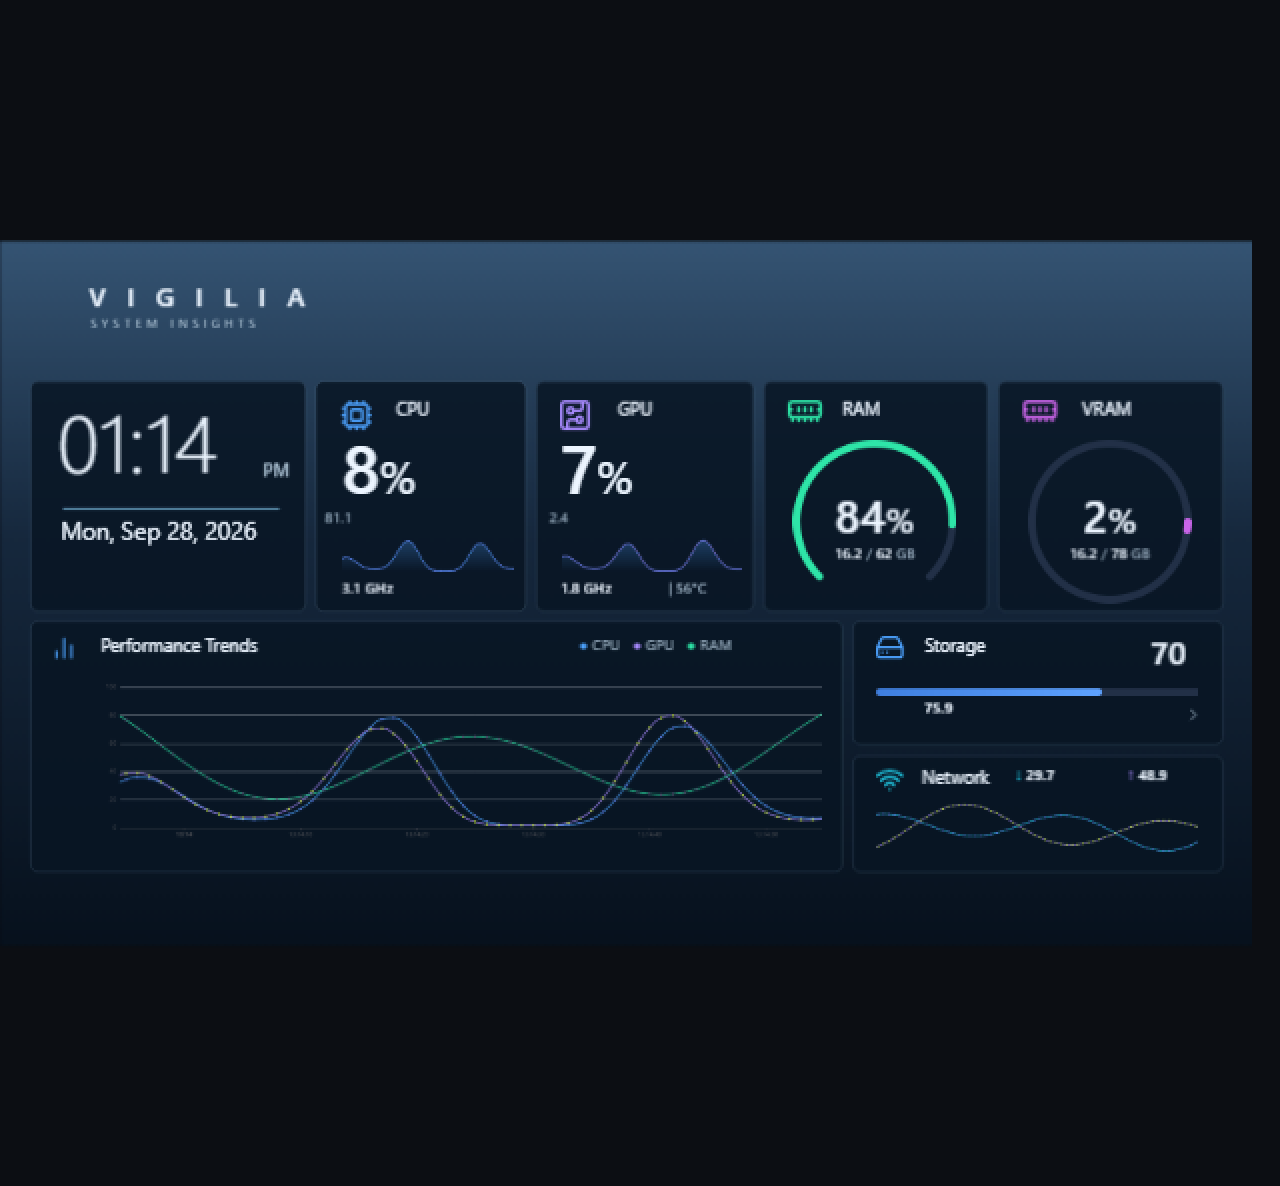
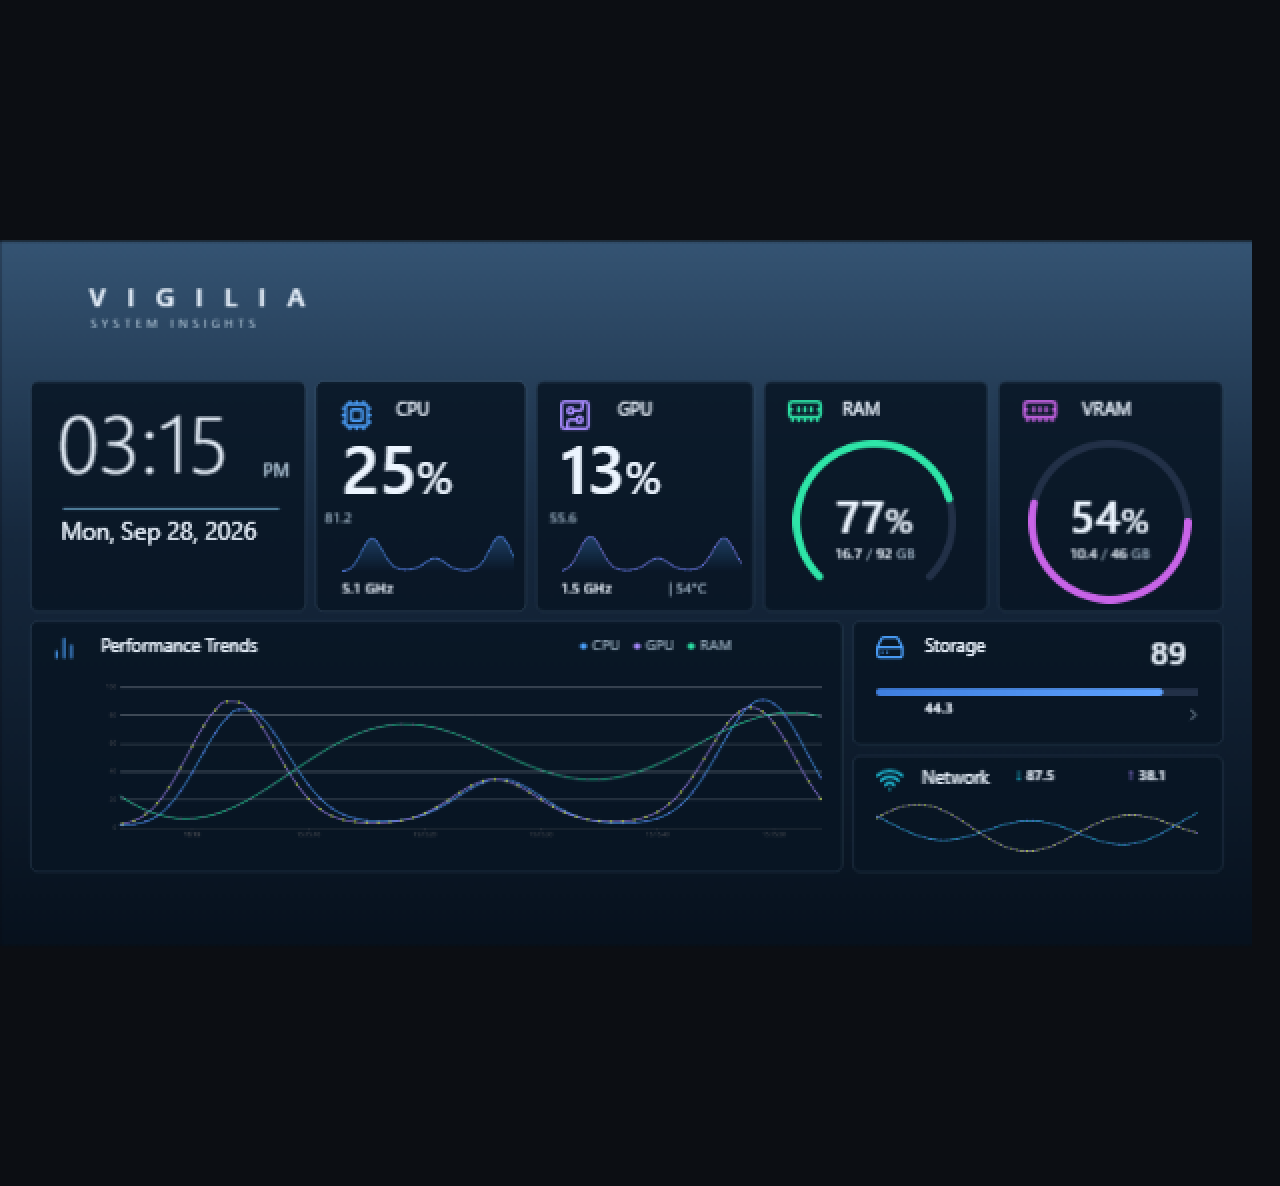
docs(review): name what the plan closed, and the one clause it did not
Task 12 reviewed the twelve tasks as a whole rather than one at a time, and
the seams are where the false claims were. Four shipped comments did not
survive the reading:

- lhm-mapping.ts's DeviceAssignment doc still said an unassigned group keeps
  the "highest reading... exactly as before". 0004 made it the first device
  the machine reports, and highest() is gone.
- A second comment in the same file had been orphaned under a new interface
  since 0ee0f47 and described the same deleted rule. It is moved onto
  matchLhmSensors, where it belongs, and corrected.
- library.ts's CPU cache said "see above" and so inherited a claim that
  describeDevices refreshes it. It does not; that clears drives only.
- disk.name's gap message said "no drive is assigned" when the assigned drive
  can also be simply absent, which the code 200 lines away handles.

A fifth was a false evidence claim rather than a false comment. STATUS and the
bug file both said the two mounts "agree to 0.1%" on ink. Re-derived: ink
parity read 0.033%/0.370% before the gauge fix and 0.062%/0.308% after, so it
does not discriminate - ink is the track, which the fix never touched. Both
now say so, and name the chroma movement (219 -> 12,601, 307 -> 4,021) as
the evidence instead.

Two e2e defects, both measured rather than guessed:

- `chroma > 2000` read "RAM above ~7%", not the ~10% it was taken for. On the
  starter's own gauge option chroma is 553 + 207 x value (216 with no datum,
[…]

diff --git a/src/web/tests/e2e/host-player.spec.ts b/src/web/tests/e2e/host-player.spec.ts
@@ -321,6 +321,13 @@ test.describe("hosted player over the real host", () => {
     await expect(page.locator("#vigilia-connection")).toHaveCount(0, {
       timeout: 15_000,
     });
+    // Waited on, not read once: the banner clears when the stream connects, which
+    // is before the first sample reaches the canvas, and until it does the clock
+    // correctly shows the no-reading gap. Reading it there is how this test went
+    // red under load while passing 24/24 in its own project.
+    await expect
+      .poll(() => shownClock(page), { timeout: 15_000 })
+      .not.toBe("—");
     const japanese = String(await canvasProp(page, CLOCK_NODE_ID, "text"));
 
     await page.goto(`${HOST}/?theme=${HOST_ENGLISH_THEME_ID}&data=live`);
@@ -328,6 +335,9 @@ test.describe("hosted player over the real host", () => {
     await expect(page.locator("#vigilia-connection")).toHaveCount(0, {
       timeout: 15_000,
     });
+    await expect
+      .poll(() => shownClock(page), { timeout: 15_000 })
+      .not.toBe("—");
     const english = String(await canvasProp(page, CLOCK_NODE_ID, "text"));
 
     // Same theme shape, binding, instant and literal. Only declared language differs.
@@ -505,10 +515,18 @@ test.describe("hosted player over the real host", () => {
     );
     expect(gauge, "the ring is on the display").toBeDefined();
     expect(gauge!.ink, "the ring has a track").toBeGreaterThan(500);
+    // The floor is the *no arc* baseline, not a share of memory. Measured on
+    // this option at the starter's 218x218 @ renderScale 2, chroma is
+    // `553 + 207 x value` px: 216 with no datum at all, 553 at value 0, 2,620 at
+    // 10%. A 2000 floor therefore read "RAM above ~7%", which is a statement
+    // about the host's memory rather than about the ring — and it went red on an
+    // idle machine that the fix had fixed. 500 is the floor this file already
+    // uses for the other charts, and it is 2.3x the arc-less baseline this test
+    // has to tell apart (219 on `ram-gauge`, 307 on `vram-gauge`).
     expect(
       gauge!.chroma,
       "the ring paints its progress arc in the theme's colour",
-    ).toBeGreaterThan(2000);
+    ).toBeGreaterThan(500);
   });
 
   test("paints each caption from the host's own reading of that key", async ({
@@ -1004,15 +1022,19 @@ test.describe("a display fed by the real host", () => {
       "the picture is not one flat colour",
     ).toBeGreaterThan(0.001);
 
-    // Kept as evidence, and looked at before it is kept.
-    await page.setContent(
-      `<body style="margin:0;background:#0c0e13"><img src="${dataUrl}" style="display:block;width:${census.width * 2}px;image-rendering:pixelated"></body>`,
-    );
-    await page.waitForTimeout(400);
-    await page.screenshot({
-      path: "../../docs/evidence/screenshots/host-theme-thumbnail-desktop-chromium.png",
-      fullPage: true,
-    });
+    // Kept as evidence, and looked at before it is kept. Gated like its two
+    // siblings: this file is tracked, and rewriting it on every desktop-host
+    // run left the working tree dirty with a picture nobody inspected.
+    if (process.env["VIGILIA_CAPTURE"] !== undefined) {
+      await page.setContent(
+        `<body style="margin:0;background:#0c0e13"><img src="${dataUrl}" style="display:block;width:${census.width * 2}px;image-rendering:pixelated"></body>`,
+      );
+      await page.waitForTimeout(400);
+      await page.screenshot({
+        path: "../../docs/evidence/screenshots/host-theme-thumbnail-desktop-chromium.png",
+        fullPage: true,
+      });
+    }
   });
 
   test("reconnects after the stream fails, and the reading resumes", async ({

diff --git a/src/web/packages/host/src/providers/lhm-mapping.ts b/src/web/packages/host/src/providers/lhm-mapping.ts
@@ -268,12 +268,6 @@ function deriveDiskUsed(sensors: readonly LhmSensor[]): number | undefined {
   return total === undefined || free === undefined ? undefined : total - free;
 }
 
-/**
- * First sensor that answers each key. Where a group has several instances (two
- * GPUs, several disks, several NICs), capacity and throughput sum, while a
- * percentage, temperature, power or clock takes the highest — which is what a
- * single figure for that key should mean.
- */
 /** A GPU this machine reports, so a consumer can choose between them. */
 export interface GpuDeviceReading {
   readonly deviceId: string;
@@ -345,6 +339,16 @@ export function diskDeviceReadings(
   return readings;
 }
 
+/**
+ * First sensor that answers each key. Where the set it is given holds several
+ * instances of one group, capacity and throughput sum while a percentage,
+ * temperature, power or clock takes the highest.
+ *
+ * That is the rule for whatever set reaches it. Which devices are in that set
+ * is `matchLhmSensorsAssigned`'s decision, and it is a selection, not a maximum
+ * (0004) — so an unassigned group here is one device's reading, not the
+ * busiest one's.
+ */
 export function matchLhmSensors(
   sensors: readonly LhmSensor[],
   semanticKeys: readonly string[],
@@ -456,9 +460,9 @@ export interface DeviceAssignment {
 
 /**
  * Readings limited to the assigned devices, so a two-GPU machine can show the
- * GPU the consumer chose under the theme's single `gpu.*` keys. A group with no
- * assignment keeps the default behaviour (highest reading, summed capacity), so
- * an unconfigured host behaves exactly as before.
+ * GPU the consumer chose under the theme's single `gpu.*` keys. An unassigned
+ * group answers from the first device the machine reports, not the busiest one
+ * (0004) — a caption that changes text every sample cannot be read.
  */
 /** The data-disk slot's keys. */
 const DATA_DISK_KEYS = [

diff --git a/src/web/packages/host/src/providers/library.ts b/src/web/packages/host/src/providers/library.ts
@@ -459,6 +459,9 @@ export function samplesFromLibrary(
   pushText(
     "disk.name",
     readings.diskName,
+    // Two causes, one message: unassigned, the keys measure every volume and
+    // no one drive's name describes that sum; assigned but absent, they measure
+    // nothing. Neither is a name.
     "no drive is assigned, so these keys describe every volume at once; " +
       "choose one on the settings page",
   );
@@ -547,7 +550,8 @@ export class LibrarySensorProvider implements SensorProvider {
    * add a miss-triggers-rebuild check when that shows up as a real defect.
    */
   private drives: Promise<readonly DriveDevice[]> | undefined;
-  /** `si.cpu()` costs ~1.5 s for three strings that cannot change; see above. */
+  /** Read once like the drive index, but *not* refreshed by `describeDevices`:
+   * a CPU's identity cannot change while the host runs. */
   private cpu: Promise<CpuLike> | undefined;
 
   constructor(private readonly library?: LibraryModule) {}

diff --git a/STATUS.md b/STATUS.md
@@ -6,12 +6,14 @@ Branch: `claude/superpowers-workflow-cleanup`
 ## Current objective
 
 Reference-theme fidelity: a progressive default starter scene, mandatory glass,
-RAM/VRAM gauges, existing charts accepted, glow optional.
+RAM/VRAM gauges, existing charts accepted, glow optional. **All 12 tasks are
+written and reviewed; the plan is not closed** because one acceptance clause is
+unmet on the real player (below).
 
 ## Active work
 
+- **Active plan:** [reference theme fidelity](docs/superpowers/plans/2026-09-26-reference-theme-fidelity.md) — subagent-driven. Tasks 1–12 written and reviewed. Ledger: `.superpowers/sdd/2026-09-26-reference-theme-fidelity/progress.md`. **Not archived, spec not marked implemented:** the acceptance clause *"Inspect editor and real player at target size, another fitted viewport and different DPR, including grouped/rotated/overlapping panels and changing media"* was proved on the **editor** mount only — the suite has one DPR test and one rotation/overlap test, both in `reference-theme.spec.ts` on `openCaptureFixture` — while the real player is inspected at reference size alone. The media half is blocked by [#3](https://github.com/peterng1618/vigilia/issues/3). Everything else in the acceptance list is met.
 - **Completed, archived:** `2026-09-25-snapping-fidelity.md`, `2026-09-26-clock-and-theme-locale.md`, [GitHub Issues as the backlog](docs/superpowers/plans/2026-09-27-github-issues-backlog.md) — `docs/bugs/` is gone; open [#2](https://github.com/peterng1618/vigilia/issues/2) delete inside a group, [#3](https://github.com/peterng1618/vigilia/issues/3) packaged assets.
-- **Active plan:** [reference theme fidelity](docs/superpowers/plans/2026-09-26-reference-theme-fidelity.md) — subagent-driven. Tasks 1–10 complete; 11, 12 remain. Ledger: `.superpowers/sdd/2026-09-26-reference-theme-fidelity/progress.md`.
 - **Queued spec, no plan:** [author journey proof](docs/superpowers/specs/2026-09-27-author-journey-proof-design.md) — **approved 2026-09-27**; plan deferred until this plan closes, since it must be written against the delivered surface. Rebuilds the reference from blank through the UI alone — no generator, starter, fixture or JSON.
 - **Queued plan:** [font catalogue and trio picker](docs/superpowers/plans/2026-09-27-font-trio-catalog.md) — not activated. Replaces the one-entry hand-written trio with 380 generated pairings over 238 faces, and the two-option dropdown with one searchable picker.
 - **Queued spec, no plan:** removing the v1 document format and the fixture node-tree render path — must account for `metadata.locale`: v1 documents carry no metadata, and absent means `en` there.
@@ -19,20 +21,21 @@ RAM/VRAM gauges, existing charts accepted, glow optional.
 
 ## Last completed change
 
-- **The RAM/VRAM rings draw their progress arc on the display** (Task 11b, [#6](https://github.com/peterng1618/vigilia/issues/6) closed). The cause is ECharts 6.1.0's and it was never the pointer: `GaugeView._renderPointer` reads its own `_progressEls` inside the data-diff `update` callback (`GaugeView.js:397`) and only assigns it after a render that drew an arc (`:457`), so a datum that outlives `progress.show: false` throws. The display renders every gauge once before telemetry arrives, and the first sample flipped the flag under a datum. **A gauge with no arc now carries no datum** (`docs/decisions/0008`), which is the bar family's own `value: null` rule. Real host, same build, saturation: **ram-gauge 219 → 12,601; vram-gauge 307 → 4,021**, track ink unchanged (21,065 → 21,085, 27,592 → 27,609) and the editor's rings read 21,072 and 27,694 on the same build — the two mounts agree to 0.1%. The `test.fail` is removed and the regression is a mounted test that fails with the fix disabled.
-- **The display's charts now paint in the theme's palette (Task 11a).** `hydrateCharts` called `buildChartPlan` with `undefined` where the editor has always passed `theme.globals?.palette`, and `planContent` dropped it too, so every `palette.` reference resolved to nothing: the storage bar carried `value: 46.8` with `itemStyle.color: "transparent"`. Real host, real host-saved starter, pixels counted — **storage-bar 0 → 17,200; ram-gauge 0 → 21,065; vram-gauge 0 → 27,592; cpu sparkline 221 → 6,482**, each by re-breaking the fix and re-measuring, not inferred.
-- **An unresolvable paint reference is now a reported gap, not transparent ink on a live value** (`docs/decisions/0007`). `chart-paint` returns `undefined`; the gauge hides its arc, the bar's datum is `value: null`, the line draws no stroke — each the no-value state that family already uses for a missing sample — and `buildChartPlan` pushes the `unresolved-global` issue `resolveStyleValue` already owns. The pie keeps its share and loses its ink: §83 forbids renumbering a composition around a colour that failed.
-- **The capture composites the artboard's background media** (D2). It is a DOM sibling by 0001, so `toCanvasElement` never saw it: 81% of the artboard transparent. It now paints through the `BackdropMedia.paint` contract the glass sampler already uses. Artboard core transparency 0.468 → <0.02 with the break. One `test.fail` removed.
+- **Task 12 reviewed the whole plan and corrected its durable records.** Four shipped comments were false or orphaned and are now true: `lhm-mapping.ts` claimed an unassigned group keeps "the highest reading… exactly as before" (0004 made it the first device the machine reports); a second doc comment there had been orphaned under a new interface since `0ee0f47` and described the same deleted rule; `library.ts`'s CPU cache said "see above" while `describeDevices` refreshes only `drives`; and `disk.name`'s gap message said "no drive is assigned" when the assigned drive can also be simply absent. A fifth was a **false evidence claim**: STATUS and the bug file both said the two mounts "agree to 0.1%" on ink — measured 0.033%/0.370% *before* the fix against 0.062%/0.308% after, so it does not discriminate. The chroma movement (219 → 12,601, 307 → 4,021) is the evidence, and that is what both now say.
+- **The e2e gauge assertion is characterised instead of guessed.** `chroma > 2000` read "RAM above ~7%": measured on the starter's own option, chroma is `553 + 207 × value` (216 with no datum, 553 at 0, 2,620 at 10). The floor is now 500, the value the same file already uses for the other charts and 2.3× the arc-less baseline it must tell apart.
+- **The two e2e evidence defects are fixed.** `host-player.spec.ts:1013` rewrote the tracked `host-theme-thumbnail-…png` on every desktop-host run with no gate, while its two siblings gate on `VIGILIA_CAPTURE`; and the locale test read the clock before the first sample arrived, which is how it went red under load.
+- **§85 and the ownership map are current again.** §85 said "No chart engine gaps are open" and now names the three the work opened (first-series-only `areaStyle`, the backing-pixel `lineWidth` unit, the gauge-datum rule). `docs/architecture/ownership.md` named the glass *control* and never the glass *rendering* owner, which the spec requires: `scene-fabric/src/glass.ts` and `renderer-core/src/theme/glass.ts` are both recorded.
 
 ## Next
 
-1. Continue reference-theme fidelity: Task 10, 11, 12.
+1. Decide the unmet acceptance clause: extend the real-player proof to a fitted viewport and a second DPR (media stays blocked on [#3](https://github.com/peterng1618/vigilia/issues/3)), or amend the clause. Then mark the spec implemented and archive the plan.
 2. Then the font catalogue plan, then the queued specs.
 
 ## Blockers / unverified
 
+- **The real player is inspected at one configuration.** `the fitted, reference-size and DPR views…` and `rotated and overlapping panels both keep compositing` both drive the editor mount. The real-player reference capture runs at 1672 × 941 and nothing else; a fitted viewport, a second DPR and changing media on that mount are unproved, and the last is blocked on [#3](https://github.com/peterng1618/vigilia/issues/3).
+- **`library.ts` is 785 lines** (a documentation-only correction cost 4 of the 19 lines of headroom the earlier ruling left). The extraction into `library-devices.ts` is still required **before any future work on selection, not during it**; it is not a violation today.
 - The `line` family applies `areaStyle` to the **first series only** (`charts/line.ts:254-255`), so the reference's three filled trend series are not expressible. A renderer limitation, not a starter decision; the two sparklines do keep their area. Separately: the glass composite bound moved 3 ms to 4 ms inside the Task 7 commit `109669e`, when the reference CPU card made the panel 1.68x larger; the review asked for that as its own commit and history was not rewritten, so it is named here instead and the supporting readings are post-change on one machine. The queued author-journey spec also still owes a browser round-trip of text wrap/overflow, in-place edit and undo.
 - The frosted CPU card's own `mr` handle does not track the pointer: a resize aiming 10 units right landed 4.24 units left of where it started, while the same gesture on the un-frosted RAM card landed exactly on the neighbouring edge. Glass is on the watchlist; this is a Task 5-shaped defect and is recorded in `task-7-report.md`.
-- Task 9's two open edges, named rather than wished away. **Residual:** each provider is internally consistent — one selection answers a group's figures and its caption together — but `registry.sample` fans out with `Promise.allSettled`, so an assignment landing **between** LHM's read and the library's pairs one provider's figure with the other's name for one frame; closing it needs a host-owned epoch threaded through the registry, a provider-contract change, and `registry.test.ts` pins the split so it is visible rather than silent. **Unverified:** the drive model→volume join matches `blockDevices[].device` to `diskLayout[].device` by equality, proven only on Windows (`\\.\PHYSICALDRIVE0`); the POSIX form is unverified, no guess was added, and a miss yields a **gap**, never a wrong name.
-- Owed to Task 8's own typography, now visible because the box is real: `storage-card-value`'s box runs 1460–1660 while its card ends at 1632 (the glyphs centre inside it and stay on the card, so nothing paints out of place, but box and card disagree by 28 units).
+- Task 9's two open edges, named rather than wished away. **Residual:** each provider is internally consistent — one selection answers a group's figures and its caption together — but `registry.sample` fans out with `Promise.allSettled`, so an assignment landing **between** LHM's read and the library's pairs one provider's figure with the other's name for one frame; closing it needs a host-owned epoch threaded through the registry, a provider-contract change, and `registry.test.ts` pins the split so it is visible rather than silent. **Unverified:** the drive model→volume join matches `blockDevices[].device` to `diskLayout[].device` by equality, proven only on Windows (`\\.\PHYSICALDRIVE0`); the POSIX form is unverified, no guess was added, and a miss yields a **gap**, never a wrong name. Owed to Task 8's typography, now visible because the box is real: `storage-card-value`'s box runs 1460–1660 while its card ends at 1632 (the glyphs centre inside it and stay on the card, so nothing paints out of place, but box and card disagree by 28 units).
 

diff --git a/docs/product/requirements.md b/docs/product/requirements.md
@@ -157,8 +157,23 @@ never zero.
 
 A supported setting needs a property control, persisted authored representation
 and visual fixture. If ECharts cannot express a treatment, surface the gap and
-get product agreement before stabilising an approximation. **No chart engine
-gaps are open.**
+get product agreement before stabilising an approximation. **Three are open**,
+recorded by the reference-theme plan; each is a limit of what one engine option
+can say, not a defect:
+
+- **A line's area fill applies to the first series only**
+  (`renderer-core/src/charts/line.ts:254-255`). A theme wanting several filled
+  series cannot have them; the reference's three filled trend series are
+  therefore not expressible, and the starter draws strokes.
+- **A series `lineWidth` is a backing-pixel length, not an artboard unit**
+  (`0005`). The backing scale is derived per chart from its own area, so one
+  authored value renders at 1.305× on the starter's trends chart against its
+  sparklines. `shadowBlur` inherits the same unit, which is why the optional
+  chart glow is skipped.
+- **A gauge must carry no datum when it draws no arc** (`0008`). ECharts 6.1.0
+  reads its own previous progress element unguarded inside the data-diff update
+  callback, so a datum outliving `progress.show: false` throws inside the
+  engine. Worked around on our side of the boundary; unfixed upstream.
 
 - Gauge angular gradients: ECharts applies gauge progress colour across the
   swept arc, so the adapter expresses the gradient as arc segments.

diff --git a/docs/architecture/ownership.md b/docs/architecture/ownership.md
@@ -74,6 +74,7 @@ tree, and `editor-shell/layer-panel.tsx` renders those rows.
 | Samples/status | `renderer-core/src/types.ts` |
 | Live presentation buffer | `renderer-core/src/data/live-source.ts` |
 | Theme semantic types/validation | `renderer-core/src/theme/` |
+| The authored `vigiliaGlass` treatment and its bounds | `renderer-core/src/theme/glass.ts` (DOM/Fabric-free; rendering lives in `scene-fabric/src/glass.ts`) |
 | Theme ZIP layout and bounds | `theme-package/src/` |
 | Published development schema | `schema/theme-document.schema.json` |
 | Wire protocol | `renderer-core/src/data/protocol.ts` |
@@ -88,6 +89,7 @@ tree, and `editor-shell/layer-panel.tsx` renders those rows.
 | Pure frame planning | `renderer-core/src/scene/plan.ts` |
 | ScenePlan reconciliation | `scene-fabric/src/adapter.ts` |
 | Canvas/artboard mount | `scene-fabric/src/scene.ts` |
+| Backdrop-glass composition, and its attach/dispose lifecycle | `scene-fabric/src/glass.ts` (editor Canvas and player StaticCanvas share it) |
 | Scene serialization/revival | `scene-fabric/src/persist.ts` |
 | `VigiliaChart` lifecycle | `scene-fabric/src/chart-object.ts` |
 | Chart repaint cadence | `scene-fabric/src/chart-refresh.ts` |

diff --git a/.github/bug-player-chart-throw.md b/.github/bug-player-chart-throw.md
@@ -82,10 +82,12 @@ round-cap shape, and not the option being wrong.
   ok sample, a missing sample, a non-`ok` sample and an unresolvable paint.
 - Pixels, in the real host on the same build, saturation over the charts' own
   ECharts canvases: `ram-gauge` **219 → 12,601**, `vram-gauge` **307 → 4,021**
-  saturated pixels, track ink unchanged (21,065 → 21,085 and 27,592 → 27,609).
-  The editor's same-build rings read 21,072 and 27,694 ink, so the two mounts
-  agree to within 0.1%. Screenshot:
-  `docs/evidence/screenshots/player-reference-desktop-host.png`.
+  saturated pixels, each re-measured from a build with this fix re-disabled.
+  Ink is reported as unchanged (21,065 → 21,085 and 27,592 → 27,609) and is
+  **not** the evidence: ink is the track, which the fix does not touch, and the
+  editor/display ink agreement read 0.033%/0.370% before the fix against
+  0.062%/0.308% after, so it does not discriminate between the two builds.
+  Screenshot: `docs/evidence/screenshots/player-reference-desktop-host.png`.
 - The report: `.superpowers/sdd/2026-09-26-reference-theme-fidelity/task-11b-report.md`.
 
 **How to reproduce** (before the fix)
